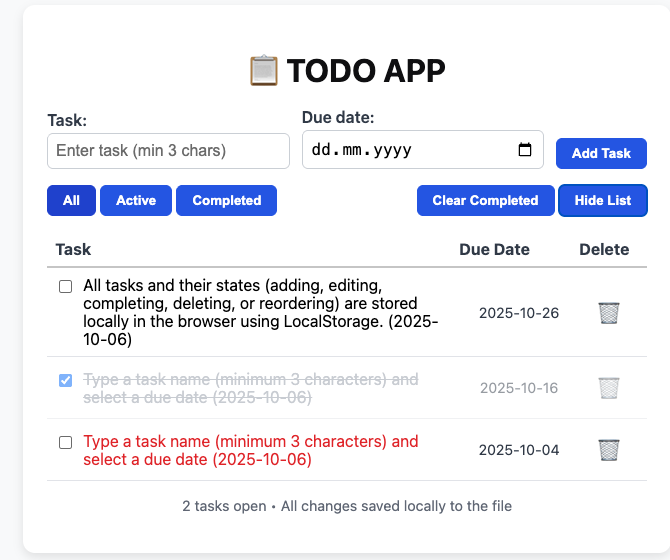
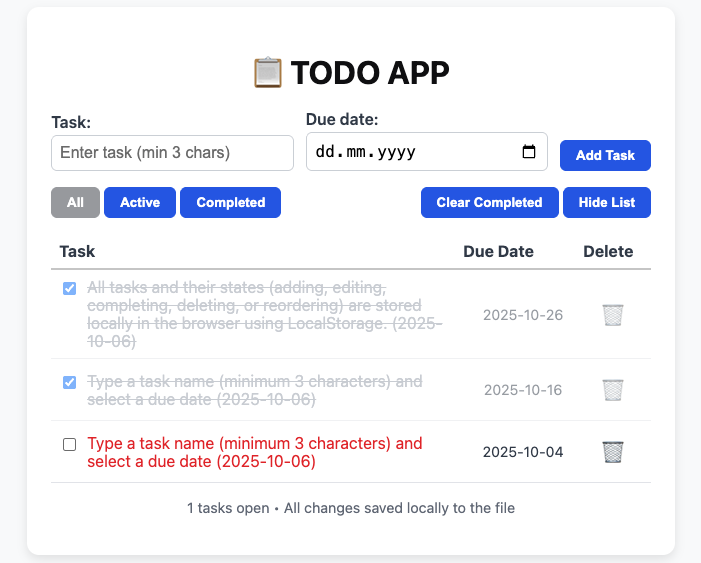
change the active button colour

diff --git a/todo.css b/todo.css
@@ -97,7 +97,7 @@ input.valid {
 }
 
 .filters button.active {
-  background: #1d4ed8;
+  background: #a1a3a7;
 }
 
 #todo-list {
